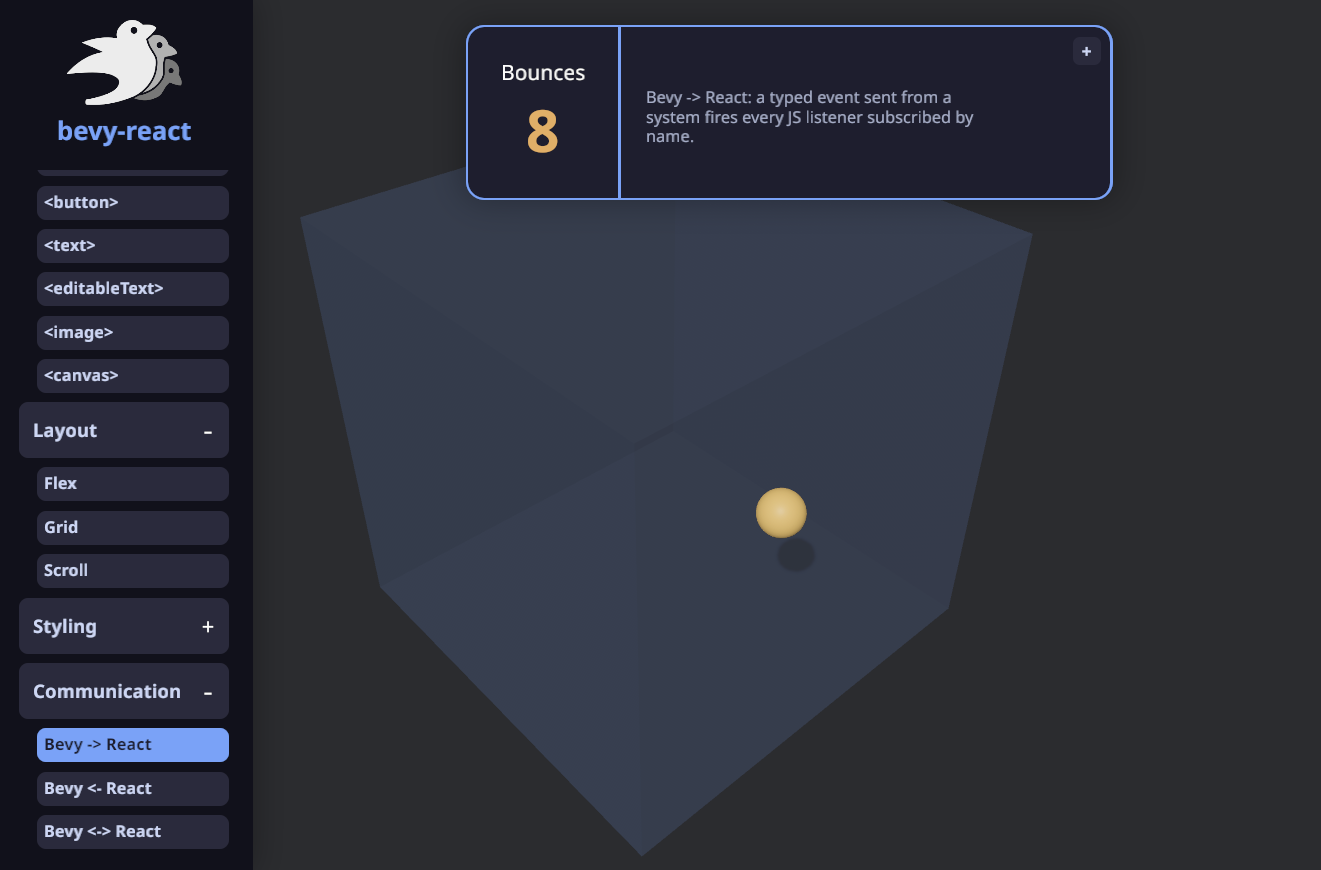
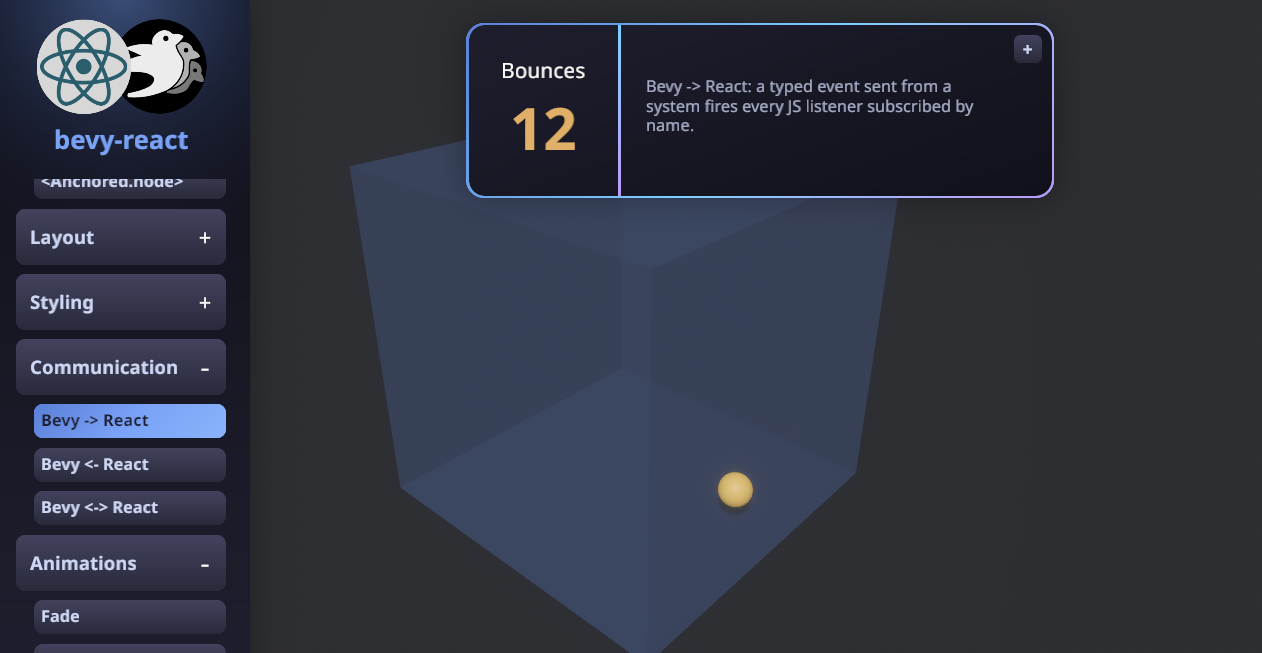
docs: updated README.md

diff --git a/js/README.md b/js/README.md
@@ -1,0 +1,24 @@
+<p align="center">
+  <img src="../examples/assets/bevy-react-logo.png" alt="bevy-react logo" width="220" />
+</p>
+
+<h1 align="center">bevy-react (JS)</h1>
+
+The JavaScript half of [**bevy-react**](https://github.com/tulustul/bevy-react):
+a custom React reconciler and runtime that renders your components to native
+[`bevy_ui`](https://docs.rs/bevy/latest/bevy/ui/index.html) — no web view, no DOM.
+
+This package does nothing on its own. It runs inside a V8 isolate embedded by the
+[`bevy-react` Rust crate](https://crates.io/crates/bevy-react), which owns the
+Bevy side of the bridge.
+
+**Start there:** see the [main README](https://github.com/tulustul/bevy-react#readme)
+for what this is and how it works, and [SETUP.md](https://github.com/tulustul/bevy-react/blob/main/SETUP.md)
+for setting up a project end to end.
+
+## What's in here
+
+- `mount`, host-element JSX types (`<node>`, `<text>`, `<button>`, …)
+- Animations: `Animated.*`, `useSharedValue`, `withTiming`, `withSpring`, …
+- `bevy-react/build-lib` — esbuild-based bundling with React Fast Refresh
+- `npx bevy-react init ui` — scaffold the React UI for a new project

diff --git a/README.md b/README.md
@@ -1,6 +1,15 @@
-# bevy-react
+<p align="center">
+  <img src="./examples/assets/bevy-react-logo.png" alt="bevy-react logo" width="220" />
+</p>
 
-[![docs.rs](https://img.shields.io/docsrs/bevy-react)](https://docs.rs/bevy-react)
+<h1 align="center">bevy-react</h1>
+
+<p align="center">
+  <a href="https://github.com/tulustul/bevy-react/actions/workflows/ci.yml"><img src="https://github.com/tulustul/bevy-react/actions/workflows/ci.yml/badge.svg" alt="CI" /></a>
+  <a href="https://crates.io/crates/bevy-react"><img src="https://img.shields.io/crates/v/bevy-react" alt="crates.io" /></a>
+  <a href="https://www.npmjs.com/package/bevy-react"><img src="https://img.shields.io/npm/v/bevy-react" alt="npm" /></a>
+  <a href="https://docs.rs/bevy-react"><img src="https://img.shields.io/docsrs/bevy-react" alt="docs.rs" /></a>
+</p>
 
 Build [`bevy_ui`](https://docs.rs/bevy/latest/bevy/ui/index.html) interfaces with
 **React**. You write components in React/TSX and they render to native Bevy UI

diff --git a/docs/PUBLISHING.md b/docs/PUBLISHING.md
@@ -1,6 +1,4 @@
-# Publishing
-
-## Release steps
+# Release steps
 
 ### 1. Bump the version
 
@@ -56,9 +54,15 @@ cargo publish --workspace
 npm publish -w bevy-react
 ```
 
-### 6. Tag the release
+### 8. Tag the release
 
 ```sh
 git tag v<version>
 git push origin v<version>
+```
+
+### 9. Deploy web demo to Github Pages
+
+```sh
+npm run deploy:web -w demos-app
 ```
